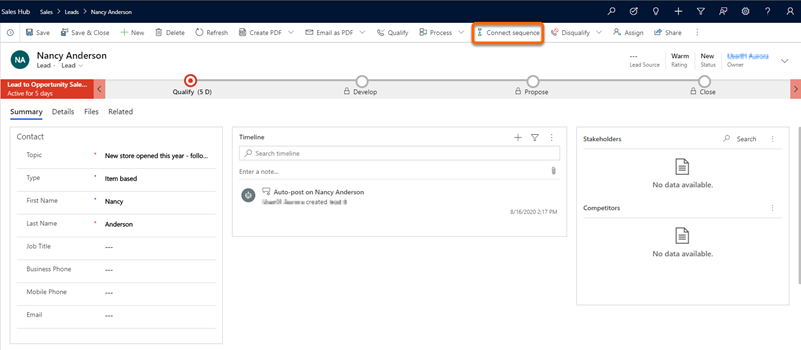
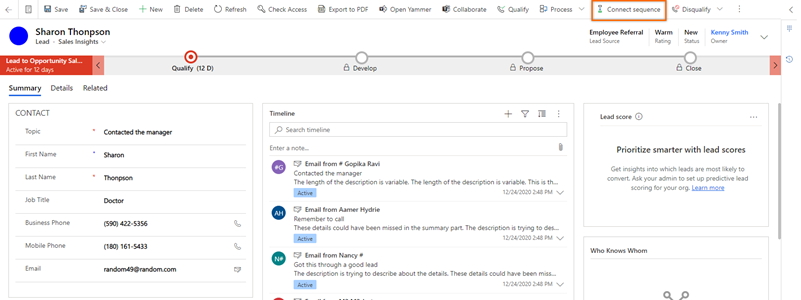
images updated

diff --git a/ai-docs/sales/connect-a-sequence-to-records.md b/ai-docs/sales/connect-a-sequence-to-records.md
@@ -66,7 +66,7 @@ The lead records are connected to the sequence and are added to the list of conn
     In this example, we select **Leads**.   
     > [!div class="mx-imgBorder"]
     > ![Lead view](media/sequence-connect-lead-view.png "Lead view")        
-4. Select the records to which you want to connect the sequence. In this example, we select **Nancy Anderson** and **Maria Campbell**.   
+4. Select the records to which you want to connect the sequence. In this example, we select **Sharon Thonpson** and **Christopher Anderson**.   
     > [!div class="mx-imgBorder"]
     > ![Select leads to connect the sequence to](media/sequence-select-leads-connect-sequence.png "Select leads to connect the sequence to")   
 
@@ -90,7 +90,7 @@ A confirmation message appears at the bottom of the page, and the sequence is co
     In this example, we select **Leads**.   
     > [!div class="mx-imgBorder"]
     > ![Lead view](media/sequence-connect-lead-view.png "Lead view")       
-4. Open the record to which you want to connect the sequence. In this example, we opened the lead **Nancy Anderson**.   
+4. Open the record to which you want to connect the sequence. In this example, we opened the lead **Sharon Thonpson**.   
     > [!div class="mx-imgBorder"]
     > ![Open a lead to connect the sequence to](media/sequence-open-lead-connect-sequence.png "Open a lead to connect the sequence to")   
     > [!NOTE]
